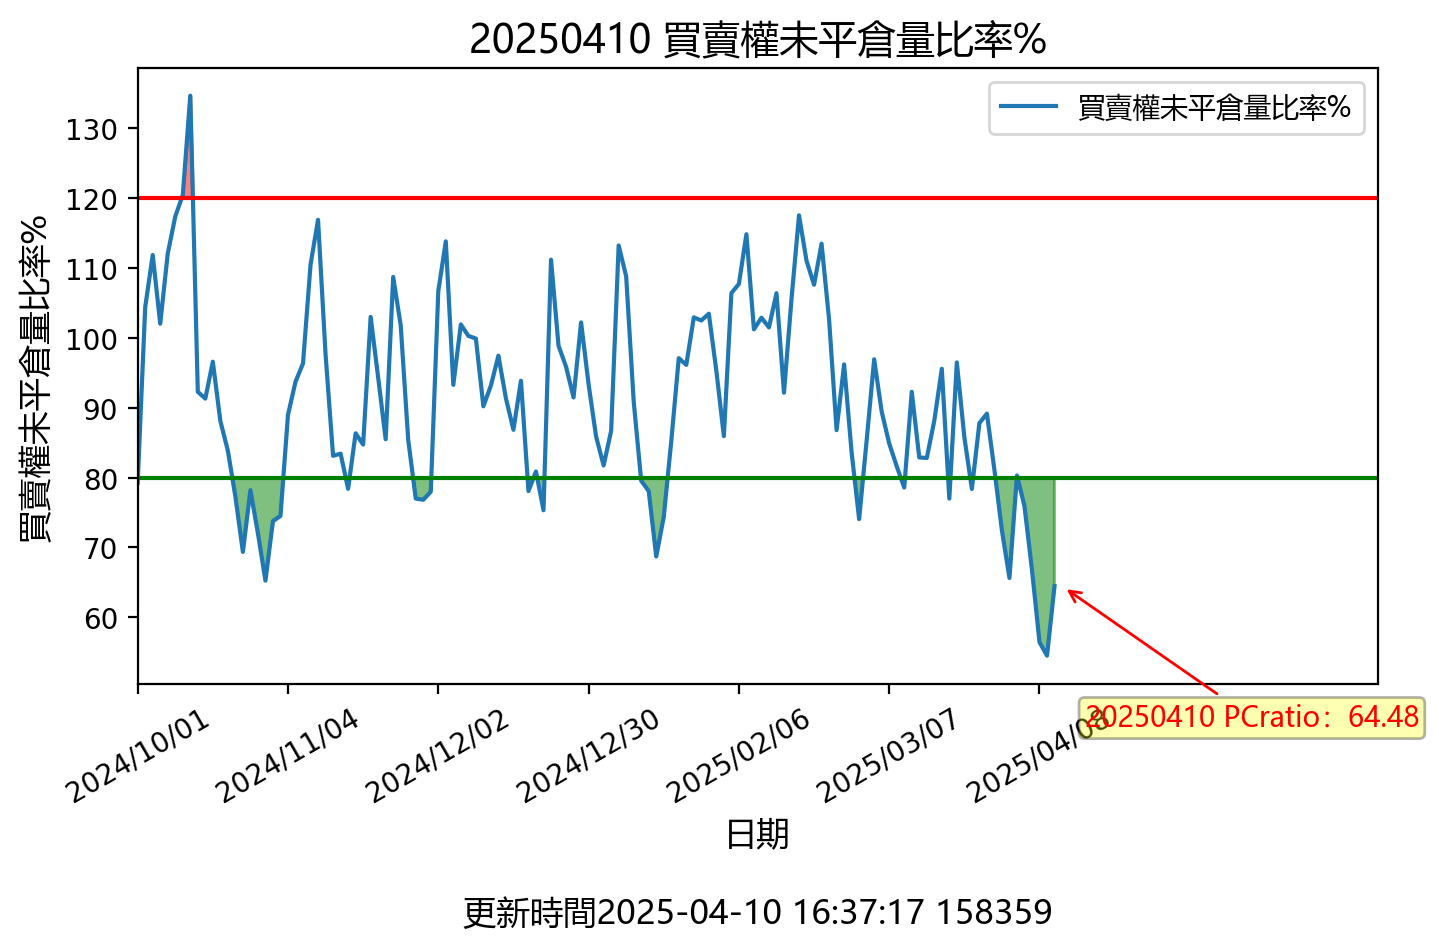
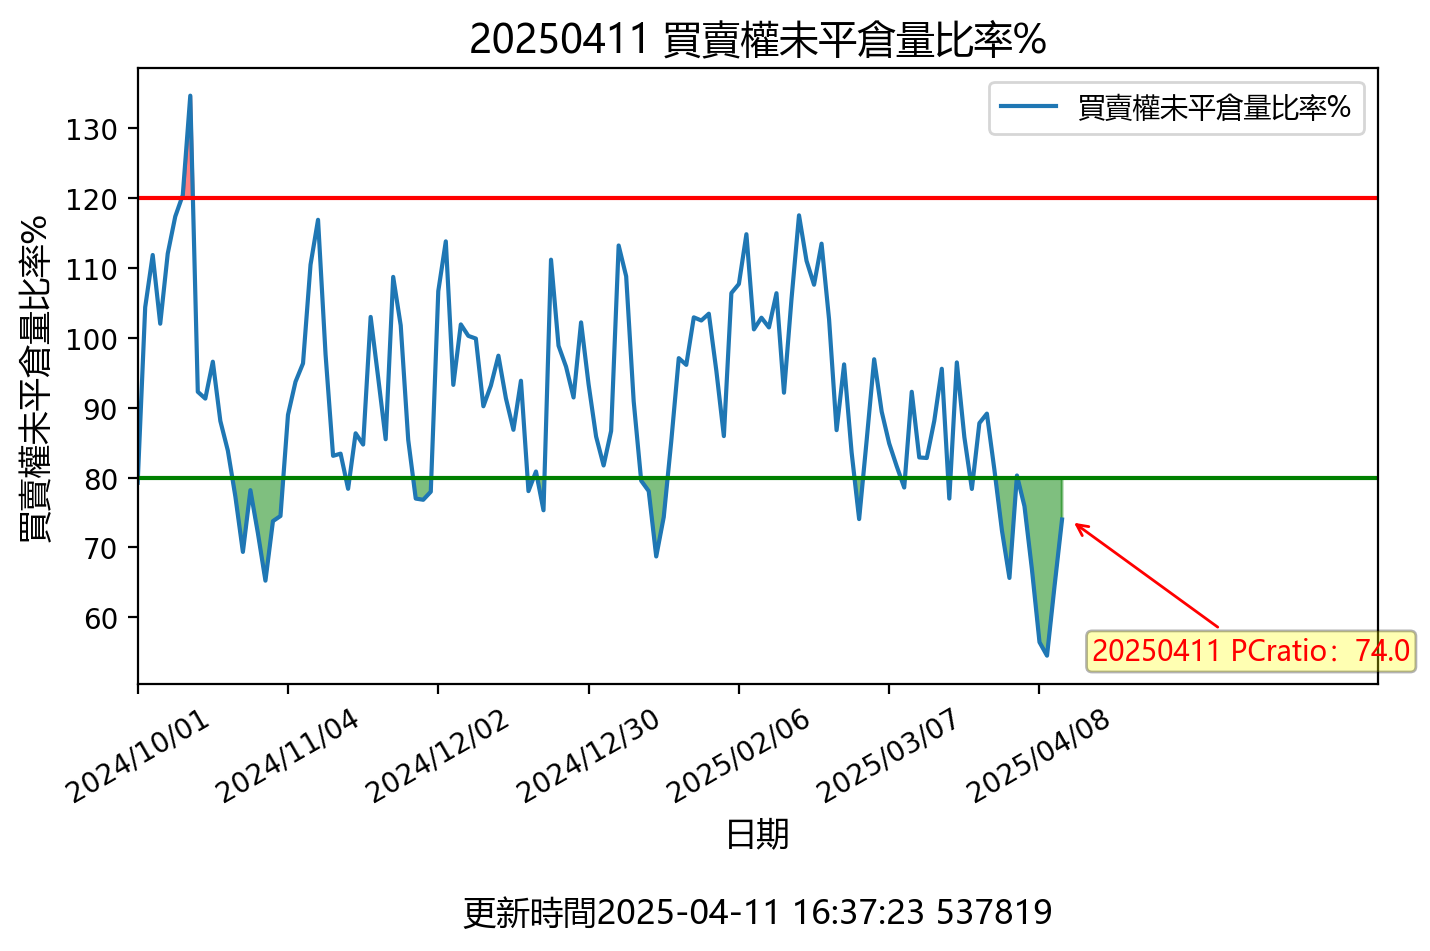
更新時間: Fri Apr 11 16:37:41 CST 2025

diff --git a/README.md b/README.md
@@ -1,12 +1,12 @@
-## 20250410 台指期「預估換倉成本」
+## 20250411 台指期「預估換倉成本」
 ![](images/txfcost.png)
 
-## 20250410 台指期「散戶小台多空比」
+## 20250411 台指期「散戶小台多空比」
 ![](images/bbiri.png)
 
-## 20250410 台指選擇權「Put/Call Ratios」
+## 20250411 台指選擇權「Put/Call Ratios」
 ![](images/pcratio.png)
 
-## 20250410 台指期「大額交易人」
+## 20250411 台指期「大額交易人」
 ![](images/blocktrade.png)
 
